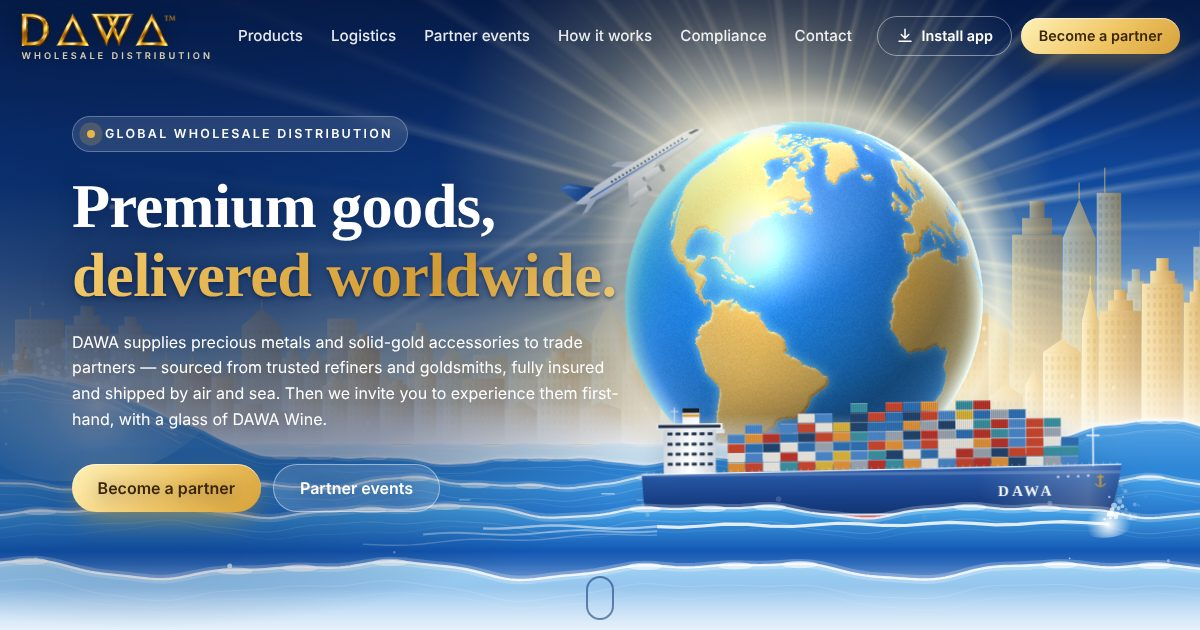
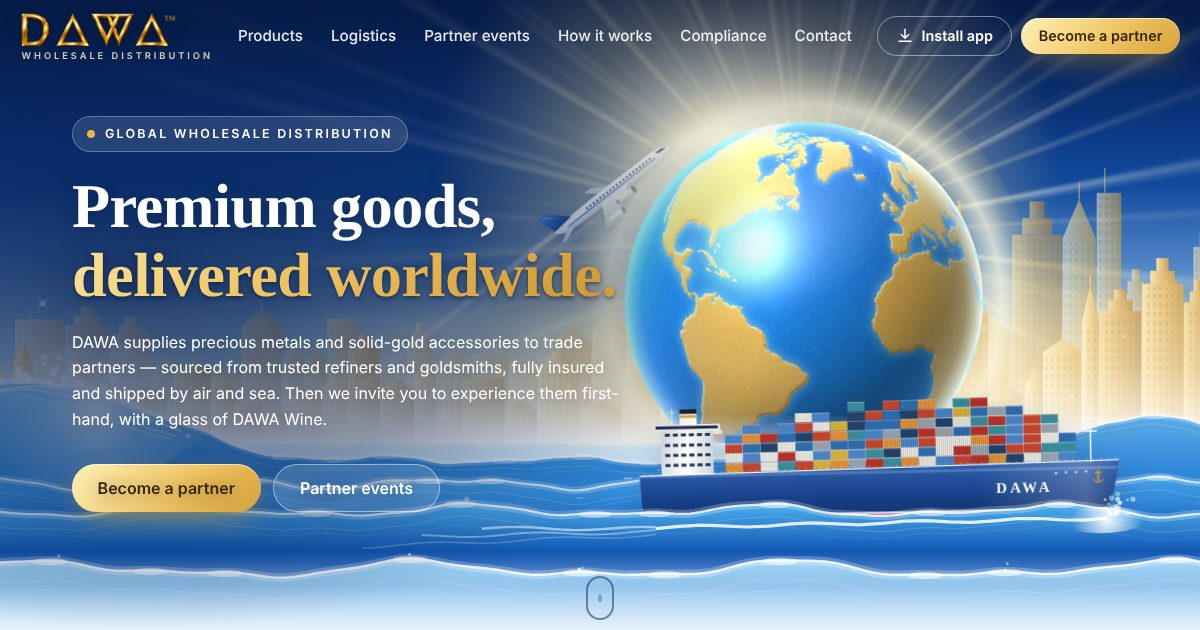
Redraw the gold pipe as a slender luxury pipe
Small tulip-shaped bowl, long fine curved stem and a jewelled band at
the joint, replacing the chunky classic pipe. Regenerate the React
component.

Claude-Session: https://claude.ai/code/session_01WrScQuffn6skyGj1w9cznC

diff --git a/react/DawaLanding.jsx b/react/DawaLanding.jsx
@@ -223,13 +223,18 @@ export default function DawaLanding() {
                       </linearGradient>
                     </defs>
                     {/* pipe */}
+                    {/* slender luxury pipe: tulip bowl, long fine stem, jewelled band */}
                     <g className="acc acc--pipe">
-                      <path d="M94 124 C72 128 46 120 22 106 L18 112 C42 128 70 138 94 136 Z" fill="url(#accGoldH)"/>
-                      <path d="M24 106 L18 112 L12 108 L18 102 Z" fill="#7a4d12"/>
-                      <path d="M86 84 H126 V122 C126 142 116 152 106 152 C96 152 86 142 86 122 Z" fill="url(#accGold)"/>
-                      <ellipse cx="106" cy="84" rx="20" ry="6" fill="#ffeaa6"/>
-                      <ellipse cx="106" cy="85" rx="15" ry="4" fill="#5a3a10"/>
-                      <path d="M93 96 V124 C93 134 97 140 101 143" stroke="#fff6d2" strokeWidth="3" fill="none" opacity=".55" strokeLinecap="round"/>
+                      <path d="M100 140 C78 146 46 136 14 112" stroke="url(#accGoldH)" strokeWidth="5" fill="none" strokeLinecap="round"/>
+                      <path d="M20 117 L8 107" stroke="#7a4d12" strokeWidth="4.2" strokeLinecap="round"/>
+                      <path d="M93 86 H127 C126 110 121 132 113 144 C109 150 102 150 99 144 C92 132 92 110 93 86 Z" fill="url(#accGold)"/>
+                      <ellipse cx="110" cy="86" rx="17" ry="4.6" fill="#ffeaa6"/>
+                      <ellipse cx="110" cy="87" rx="12.5" ry="3" fill="#5a3a10"/>
+                      <path d="M99 96 C98 114 100 130 104 140" stroke="#fff6d2" strokeWidth="2.6" fill="none" opacity=".6" strokeLinecap="round"/>
+                      <path d="M94 104 C104 107 116 107 126 104" stroke="#a8701f" strokeWidth="1.4" fill="none" opacity=".7"/>
+                      <rect x="80" y="137" width="12" height="10" rx="2.5" fill="url(#accGold)" transform="rotate(-14 86 142)"/>
+                      <circle cx="86" cy="142" r="3" fill="#fffdf5"/>
+                      <circle cx="86" cy="142" r="1.4" fill="#cfe9ff"/>
                     </g>
                     {/* steam chalice: water vessel, stem, bowl and draw hose */}
                     <g className="acc acc--chalice">

diff --git a/index.html b/index.html
@@ -344,13 +344,18 @@
                   </linearGradient>
                 </defs>
                 <!-- pipe -->
+                <!-- slender luxury pipe: tulip bowl, long fine stem, jewelled band -->
                 <g class="acc acc--pipe">
-                  <path d="M94 124 C72 128 46 120 22 106 L18 112 C42 128 70 138 94 136 Z" fill="url(#accGoldH)"/>
-                  <path d="M24 106 L18 112 L12 108 L18 102 Z" fill="#7a4d12"/>
-                  <path d="M86 84 H126 V122 C126 142 116 152 106 152 C96 152 86 142 86 122 Z" fill="url(#accGold)"/>
-                  <ellipse cx="106" cy="84" rx="20" ry="6" fill="#ffeaa6"/>
-                  <ellipse cx="106" cy="85" rx="15" ry="4" fill="#5a3a10"/>
-                  <path d="M93 96 V124 C93 134 97 140 101 143" stroke="#fff6d2" stroke-width="3" fill="none" opacity=".55" stroke-linecap="round"/>
+                  <path d="M100 140 C78 146 46 136 14 112" stroke="url(#accGoldH)" stroke-width="5" fill="none" stroke-linecap="round"/>
+                  <path d="M20 117 L8 107" stroke="#7a4d12" stroke-width="4.2" stroke-linecap="round"/>
+                  <path d="M93 86 H127 C126 110 121 132 113 144 C109 150 102 150 99 144 C92 132 92 110 93 86 Z" fill="url(#accGold)"/>
+                  <ellipse cx="110" cy="86" rx="17" ry="4.6" fill="#ffeaa6"/>
+                  <ellipse cx="110" cy="87" rx="12.5" ry="3" fill="#5a3a10"/>
+                  <path d="M99 96 C98 114 100 130 104 140" stroke="#fff6d2" stroke-width="2.6" fill="none" opacity=".6" stroke-linecap="round"/>
+                  <path d="M94 104 C104 107 116 107 126 104" stroke="#a8701f" stroke-width="1.4" fill="none" opacity=".7"/>
+                  <rect x="80" y="137" width="12" height="10" rx="2.5" fill="url(#accGold)" transform="rotate(-14 86 142)"/>
+                  <circle cx="86" cy="142" r="3" fill="#fffdf5"/>
+                  <circle cx="86" cy="142" r="1.4" fill="#cfe9ff"/>
                 </g>
                 <!-- steam chalice: water vessel, stem, bowl and draw hose -->
                 <g class="acc acc--chalice">
